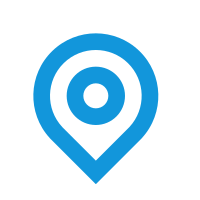
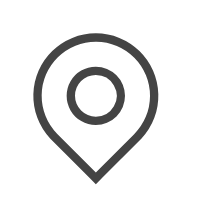
修改购物车页面标题栏

Changed region(s): [[0.15, 0.15, 0.81, 0.93], [0.33, 0.33, 0.63, 0.63]]

diff --git a/GBeanMallProject/src/screen/cart/Cart.js b/GBeanMallProject/src/screen/cart/Cart.js
@@ -1,13 +1,20 @@
 import React, {Component} from 'react';
-import {Text, Image, Button} from 'react-native';
-import styles from './../../common/modules/styles';
+import {View, Text, Image, Button} from 'react-native';
+import {styles, deviceWidth} from './../../common/modules/styles';
 
 class CartTitle extends Component {
     render() {
         return (
-            <View>
-                <Text>购物车</Text>
-                <image source={require('./../../img/position.png')} />
+            <View 
+                style={{
+                    flexDirection: 'row',
+                    justifyContent: 'center',
+                    alignItems: 'center',
+                    width: deviceWidth,
+                }}
+            >
+                <Text style={{fontSize: 20, color: '#333'}}>购物车</Text>
+                <Image style={{width: 18, height: 18}} source={require('./../../img/position.png')} />
             </View>
         );
     }
@@ -23,13 +30,9 @@ export default class CartScreen extends Component{
             />
         ),
         headerTitle: <CartTitle />,
-        headerRight: (
-            <Button
-                onPress={() => alert('This is a button!')}
-                title="Info"
-                color="#fff"
-            />
-        ),
+        headerTitleStyle: {
+            alignSelt: 'center',
+        }
     };
 
     render(){

diff --git a/GBeanMallProject/src/screen/home/Home.js b/GBeanMallProject/src/screen/home/Home.js
@@ -1,6 +1,6 @@
 import React, {Component} from 'react';
 import {View, Text, Image, Button, Alert, ScrollView, StyleSheet, Dimensions} from 'react-native';
-import styles from './../../common/modules/styles';
+import {styles} from './../../common/modules/styles';
 import Swiper from 'react-native-swiper';
 
 import request from './modules/request';
@@ -30,6 +30,7 @@ export default class HomeScreen extends Component{
                 style={[styles.icon, {tintColor: tintColor}]}
             />
         ),
+        header: null,
     };
 
     constructor(props){

diff --git a/GBeanMallProject/src/screen/mine/Mine.js b/GBeanMallProject/src/screen/mine/Mine.js
@@ -1,6 +1,6 @@
 import React, {Component} from 'react';
 import {Text, Image, Button} from 'react-native';
-import styles from './../../common/modules/styles';
+import {styles} from './../../common/modules/styles';
 
 export default class CartScreen extends Component{
     static navigationOptions = {
@@ -11,6 +11,7 @@ export default class CartScreen extends Component{
                 style={[styles.icon, {tintColor: tintColor}]}
             />
         ),
+        header: null,
     };
 
     render(){

diff --git a/GBeanMallProject/src/common/modules/styles.js b/GBeanMallProject/src/common/modules/styles.js
@@ -1,5 +1,6 @@
-import {StyleSheet} from 'react-native';
+import {StyleSheet, Dimensions} from 'react-native';
 
+const deviceWidth = Dimensions.get('window').width;
 const styles = StyleSheet.create({
     container: {
         backgroundColor: '#ebebeb',
@@ -10,4 +11,4 @@ const styles = StyleSheet.create({
     },
 });
 
-export default styles;
+export {styles, deviceWidth};

diff --git a/GBeanMallProject/src/navigation/Main.js b/GBeanMallProject/src/navigation/Main.js
@@ -7,9 +7,6 @@ const Main = StackNavigator(
     {
         Tab: {
             screen: Tab,
-            navigationOptions: {
-                header: null,
-            }
         },
         CommodityDetail: {
             screen: CommodityDetail,
